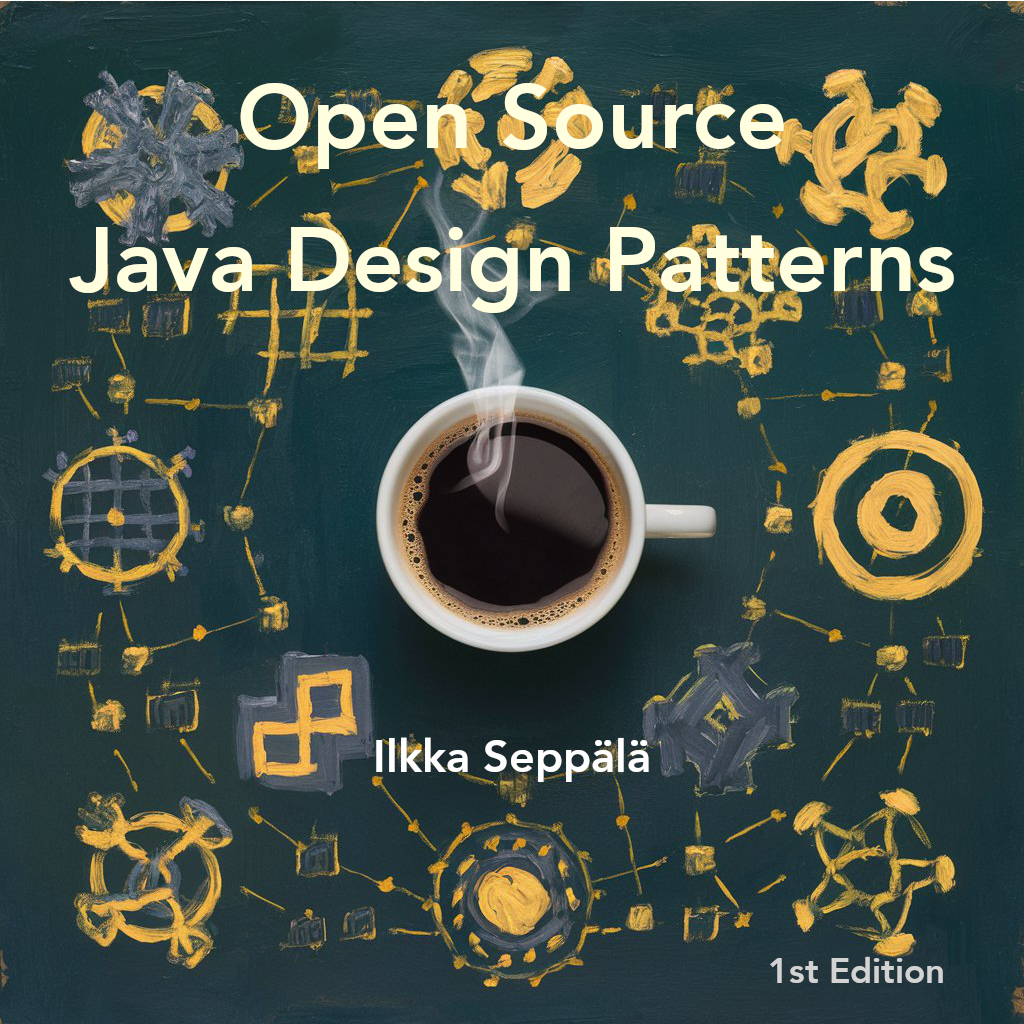
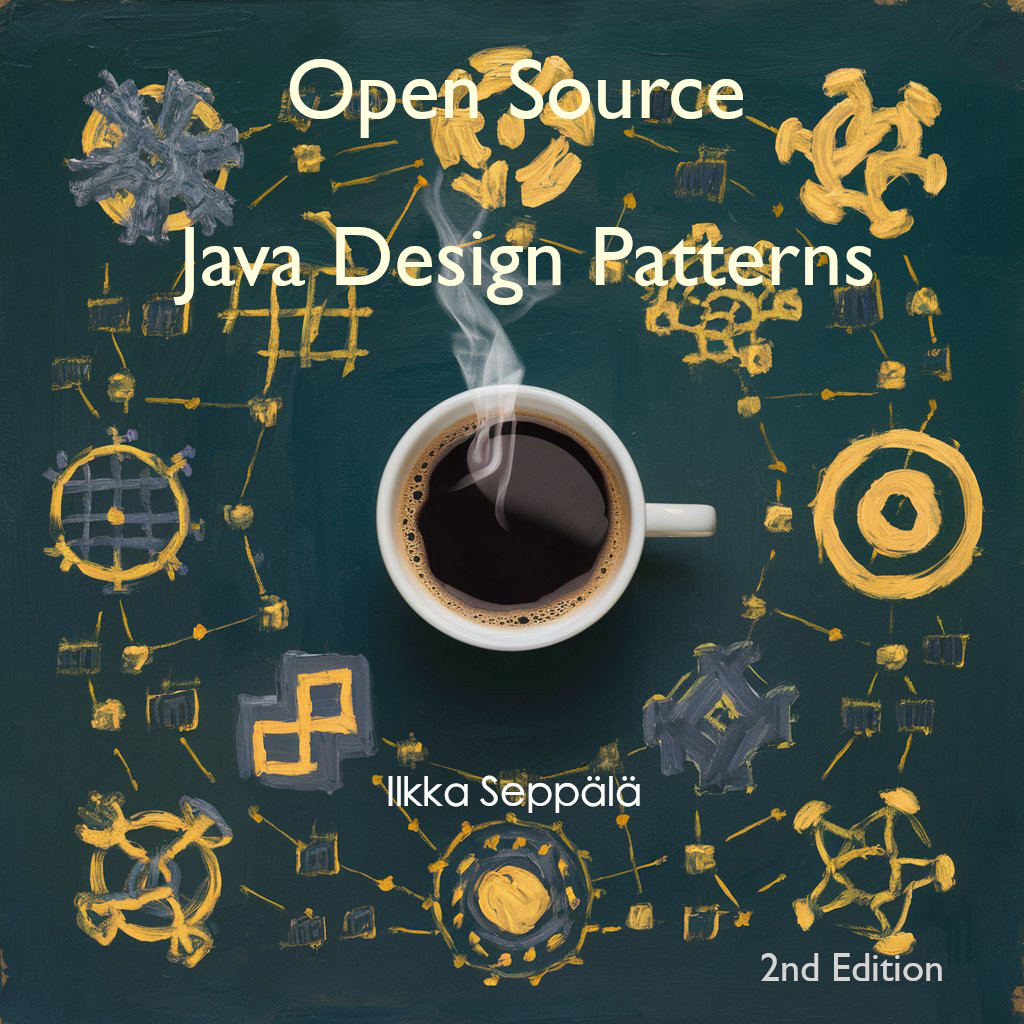
feat: update book to 2nd edition

diff --git a/src/book/README.md b/src/book/README.md
@@ -7,45 +7,48 @@ language: en
 
 # Get the Book
 
-## For the Price of a Cup of Coffee ☕, Unlock the Power of Advanced Java Development with "Open Source Java Design Patterns"
+## Unlock the Power of Advanced Java Development with "Open Source Java Design Patterns"
 
-**Are you a Java developer looking to elevate your coding skills and architectural knowledge?** Look no further than ["Open Source Java Design Patterns"](https://payhip.com/b/kcaF9), the essential guide for mastering the art of design patterns in Java. This comprehensive resource is your gateway to creating robust, maintainable, and scalable software systems.
+**Are you a Java developer looking to elevate your coding skills and architectural knowledge?** Look no further than ["Open Source Java Design Patterns"](https://payhip.com/b/bNQFX), the essential guide for mastering the art of design patterns in Java. This comprehensive resource is your gateway to creating robust, maintainable, and scalable software systems.
 
-[![Click the image to enter the book store](./etc/oil-painting.jpeg)](https://payhip.com/b/kcaF9)
+[![Click the image to enter the book store](./etc/oil-painting.jpeg)](https://payhip.com/b/bNQFX)
 
 ## What's Inside?
 
-1. **158 Design Patterns**:
+1. **172 Design Patterns**:
     - Abstract Document
     - Abstract Factory
     - Active Object
-    - And many more... [Get the free book sample from the store](https://payhip.com/b/kcaF9) to see the full table of contents.
+    - And many more... [Get the free book preview sample from the store](https://payhip.com/b/bNQFX) to see the full table of contents.
 
-2. **14 Categories**:
+2. **13 Categories**:
    - Architectural
    - Behavioral
    - Concurrency
+   - Creational
    - And many more...
 
-3. **79 Tags**:
+3. **89 Tags**:
+   - API design
    - Abstraction
    - Accumulation
    - Architecture
    - And many more...
 
-4. **746 Pages**:
+4. **960 Pages**:
    - Comprehensive and detailed explanations.
-   - Step-by-step tutorials.
-   - Real-world examples.
+   - Beautifully illustrated with diagrams.
+   - Step-by-step tutorials with code examples.
+   - Real-world applications and use cases.
    - Practical implementation tips.
-   - Code snippets and diagrams.
 
 ## Why This Book?
 
-- **Comprehensive Coverage**: From creational to structural to behavioral patterns, this book covers every essential design pattern you need to know.
+- **Comprehensive Coverage**: From creational to structural to behavioral patterns, this book is the largest collection of Java design patterns on the planet.
 - **Hands-On Examples**: Real-world examples and practical tutorials to help you apply each pattern in your projects.
 - **Expert Insights**: Learn from experienced Java developers and architects who share their best practices and tips.
 - **Scalability and Maintainability**: Discover patterns that make your code more scalable, maintainable, and adaptable to change.
+- **Open Source**: This book is based on open source Github repository, allowing you to contribute and learn from a community of developers.
 
 ## Transform Your Coding Practices
 
@@ -53,9 +56,6 @@ Whether you're a beginner or an experienced developer, ["Open Source Java Design
 
 ## Get Your Copy Today!
 
-Don't miss out on the opportunity to become a more skilled and efficient Java developer. Enhance your programming toolkit with ["Open Source Java Design Patterns"](https://payhip.com/b/kcaF9) and take your software development skills to the next level.
+Don't miss out on the opportunity to become a more skilled and efficient Java developer. Enhance your programming toolkit with ["Open Source Java Design Patterns"](https://payhip.com/b/bNQFX) and take your software development skills to the next level.
 
-**[Order now](https://payhip.com/b/kcaF9) and start your journey towards mastering Java design patterns!**
-
----
-By focusing on the key aspects and benefits of the book, this advertisement aims to attract both novice and seasoned Java developers interested in enhancing their skills and understanding of design patterns. If you have any specific details or highlights you want to include, feel free to let me know!
+**[Order now](https://payhip.com/b/bNQFX) and start your journey towards mastering Java design patterns!**
